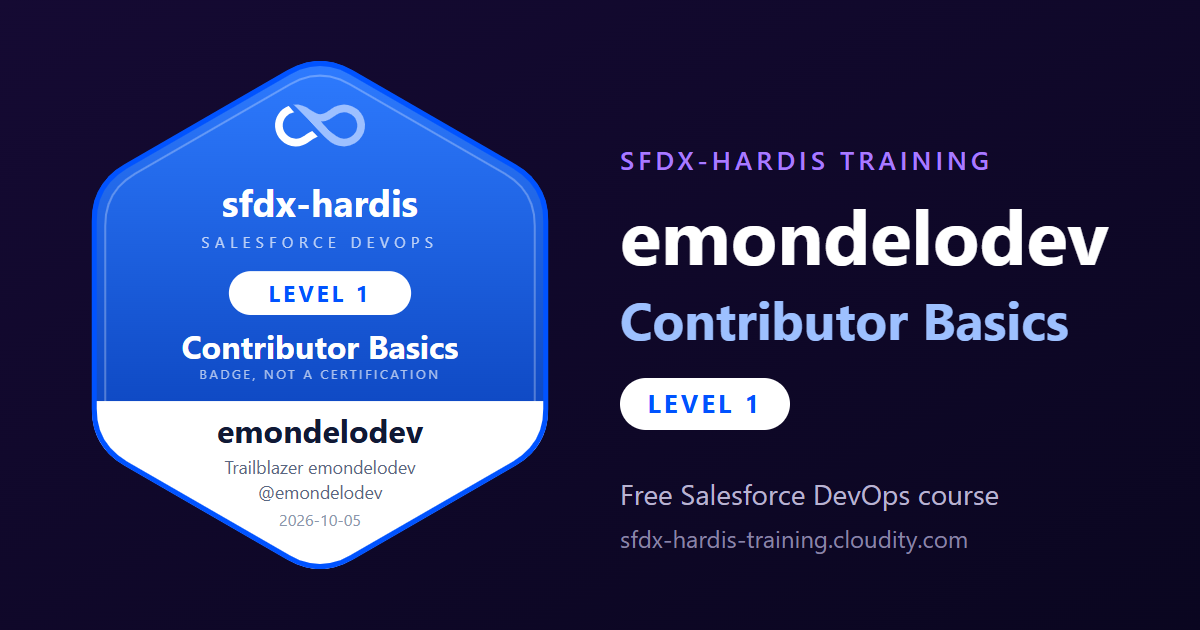
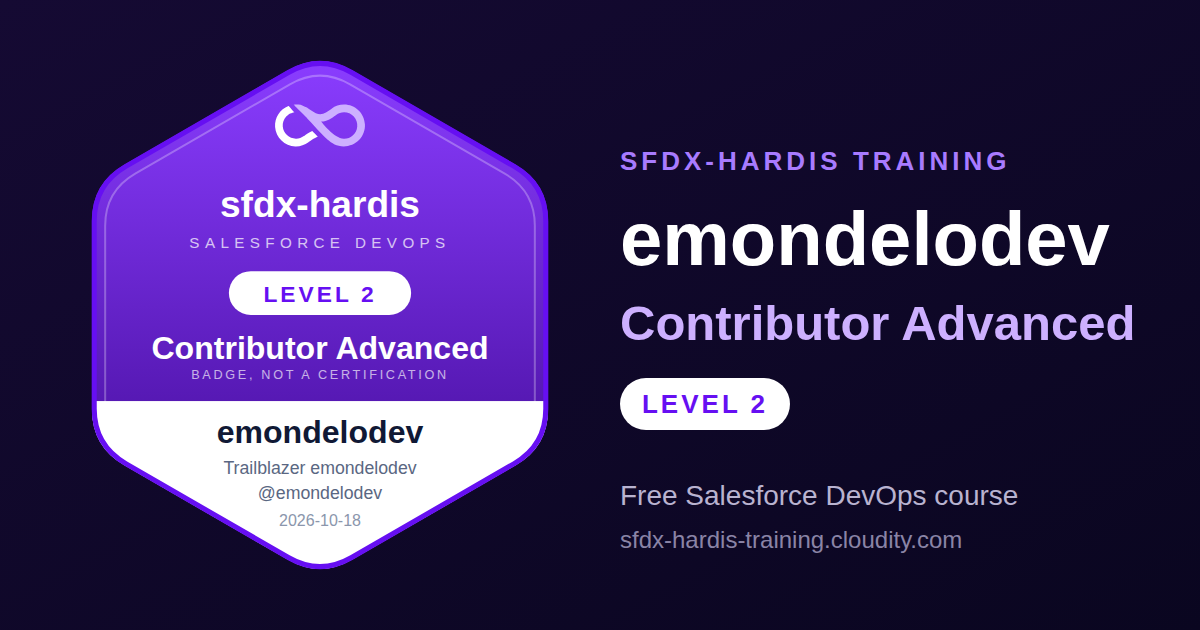
badge: level 2 for emondelodev (emondelodev)

diff --git a/STATS.md b/STATS.md
@@ -2,7 +2,7 @@
 
 # Course statistics
 
-Read every Monday and after every badge awarded, from the public repositories of the 64 learners who set up the course, and from the badges they claimed.
+Read every Monday and after every badge awarded, from the public repositories of the 66 learners who set up the course, and from the badges they claimed.
 Last update: 2026-10-18.
 
 ## Started and completed
@@ -11,9 +11,9 @@ A level is started when its first branch exists in the learner's repository, and
 
 | Level | Started | Share of learners | Completed | Share of started |
 |---|---|---|---|---|
-| Level 1 - Contributor basics | 64 | 100% | 40 | 63% |
-| Level 2 - Contributor advanced | 28 | 44% | 12 | 43% |
-| Level 3 - Release Manager | 13 | 20% | 6 | 46% |
+| Level 1 - Contributor basics | 66 | 100% | 40 | 61% |
+| Level 2 - Contributor advanced | 29 | 44% | 13 | 45% |
+| Level 3 - Release Manager | 14 | 21% | 6 | 43% |
 
 ## Time spent
 
@@ -22,7 +22,7 @@ The median time of the learners who went through, next to the estimate each lab 
 | Level | First estimate | Median | Fastest | Learners |
 |---|---|---|---|---|
 | Level 1 - Contributor basics | 1 h 30 | 1 h 19 | 39 min | 36 |
-| Level 2 - Contributor advanced | 4 h | 5 h 55 | 1 h 31 | 10 |
+| Level 2 - Contributor advanced | 4 h | 5 h 45 | 1 h 31 | 11 |
 | Level 3 - Release Manager | 6 h 55 | 12 h 12 | 7 h 36 | 5 |
 
 ### Level 1 - Contributor basics
@@ -38,26 +38,26 @@ The median time of the learners who went through, next to the estimate each lab 
 |---|---|---|---|---|
 | Labs 2.1 and 2.2 | 40 min | 53 min | 24 min | 24 |
 | Lab 2.3 | 30 min | 47 min | 15 min | 21 |
-| Lab 2.4 | 30 min | 49 min | 20 min | 17 |
-| Lab 2.5 | 30 min | 22 min | 6 min | 12 |
-| Lab 2.6 | 25 min | 25 min | 10 min | 12 |
-| Lab 2.7 | 35 min | 32 min | 10 min | 11 |
-| Lab 2.8 | 20 min | 20 min | 6 min | 11 |
-| Lab 2.9 | 30 min | 44 min | 11 min | 11 |
+| Lab 2.4 | 30 min | 49 min | 20 min | 18 |
+| Lab 2.5 | 30 min | 22 min | 6 min | 13 |
+| Lab 2.6 | 25 min | 26 min | 10 min | 13 |
+| Lab 2.7 | 35 min | 35 min | 10 min | 12 |
+| Lab 2.8 | 20 min | 24 min | 6 min | 12 |
+| Lab 2.9 | 30 min | 52 min | 23 min | 12 |
 
 ### Level 3 - Release Manager
 
 | Labs | First estimate | Median | Fastest | Learners |
 |---|---|---|---|---|
-| Lab 3.1 | 50 min | 1 h 28 | 25 min | 8 |
-| Lab 3.2 | 25 min | 26 min | 18 min | 8 |
-| Lab 3.3 | 45 min | 1 h 14 | 38 min | 7 |
+| Lab 3.1 | 50 min | 56 min | 15 min | 9 |
+| Lab 3.2 | 25 min | 26 min | 10 min | 9 |
+| Lab 3.3 | 45 min | 1 h 03 | 18 min | 8 |
 | Lab 3.4 | 35 min | 17 min | 6 min | 5 |
 | Lab 3.5 | 35 min | 52 min | 29 min | 5 |
 | Lab 3.6 | 35 min | 1 h 01 | 21 min | 7 |
 | Lab 3.7 | 35 min | 38 min | 16 min | 7 |
-| Labs 3.8 to 3.10 | 1 h 50 | 1 h 31 | 51 min | 6 |
-| Lab 3.11 | 45 min | 41 min | 20 min | 6 |
+| Labs 3.8 to 3.10 | 1 h 50 | 1 h 28 | 51 min | 7 |
+| Lab 3.11 | 45 min | 27 min | 9 min | 7 |
 
 ### Lab by lab
 

diff --git a/labs/fr/level-2-contributor-advanced/index.md b/labs/fr/level-2-contributor-advanced/index.md
@@ -4,12 +4,12 @@ description: "Affrontez ce que les vraies livraisons Salesforce vous envoient : 
 id: l2-home
 level: 2
 lang: fr
-source_rev: "375d49540dc723bb77dc1744b00b91a924a3adc6"
+source_rev: "1dda9232d4173b3bcb60192e0093ee37c81fcb6d"
 ---
 
 # Niveau 2 - Contributeur Salesforce DevOps avancé
 
-**Durée** : environ 4 h 15.<!-- observed --> Observé sur les Labs 2.1 à 2.9 : médiane 5 h 55, 10 participants, le plus rapide 1 h 31.<!-- /observed -->
+**Durée** : environ 4 h 15.<!-- observed --> Observé sur les Labs 2.1 à 2.9 : médiane 5 h 45, 11 participants, le plus rapide 1 h 31.<!-- /observed -->
 
 **Prérequis** : le [Niveau 1](../level-1-contributor-basics/index.md). Pas facultatif : chaque lab
 d'ici suppose que la boucle est automatique pour vous.

diff --git a/labs/en/level-2-contributor-advanced/index.md b/labs/en/level-2-contributor-advanced/index.md
@@ -8,7 +8,7 @@ lang: en
 
 # Level 2 - Salesforce DevOps contributor advanced
 
-**Time**: about 4 h 15.<!-- observed --> Observed on Labs 2.1 to 2.9: median 5 h 55, 10 learners, fastest 1 h 31.<!-- /observed -->
+**Time**: about 4 h 15.<!-- observed --> Observed on Labs 2.1 to 2.9: median 5 h 45, 11 learners, fastest 1 h 31.<!-- /observed -->
 
 **Before you start**: [Level 1](../level-1-contributor-basics/index.md). Not optional: every lab here assumes the loop
 is automatic for you.
